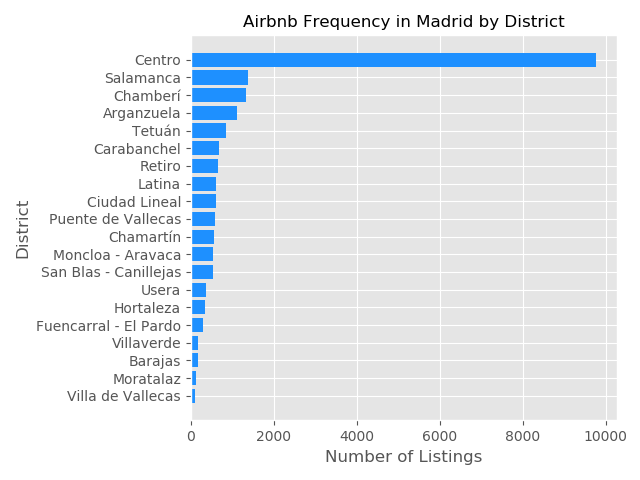
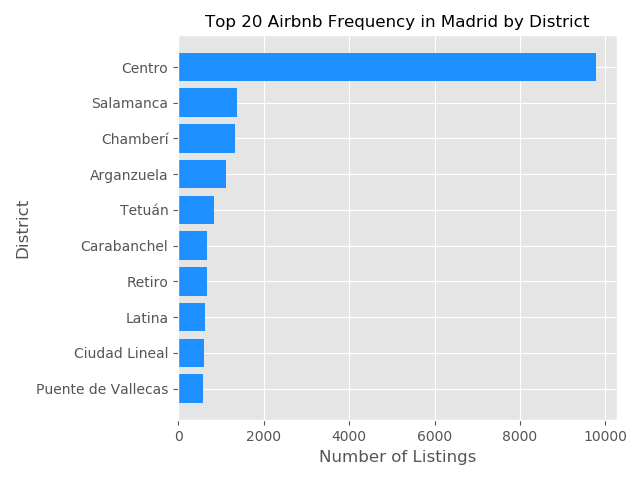
updated plot.py and Madrid section README

diff --git a/src/plots.py b/src/plots.py
@@ -8,6 +8,12 @@ import geoplot
 import eda
 plt.style.use('ggplot')
 
+def top_20(data, col_name, n = 20):
+    count = data[col_name].value_counts()
+    top20 = count[:n]
+    labels = top20.index
+    return labels, top20
+
 
 def bar_plot(data, labels, title = None, xlabel = None, ylabel = None):
     fig, ax = plt.subplots(1,1)
@@ -51,7 +57,7 @@ def nested_dictionary(data, col_name):
     return subdatasets
 
 def geomap_plot(d, base_map, color_dict, title = None, labels = None):
-    fig, ax = plt.subplots(1,1)
+    fig, ax = plt.subplots(1,1, figsize = (10, 10))
     ax.set_aspect('equal')
     base = base_map.plot(ax = ax, alpha=0.5, edgecolor='k')
     for k,v in d.items():
@@ -103,8 +109,8 @@ if __name__ == "__main__":
 
 
     #EDA plot
-    borough_labels, borough_counts = eda.top_20(nyc, 'neighbourhood_group')
-    neighborhood_labels, neighborhood_counts = eda.top_20(nyc, 'neighbourhood')
+    borough_labels, borough_counts = top_20(nyc, 'neighbourhood_group')
+    neighborhood_labels, neighborhood_counts = top_20(nyc, 'neighbourhood')
     bar_plot(borough_counts, borough_labels, 'Airbnb Frequency in NYC by Borough', 'Number of Listings', 'Boroughs')
     plt.savefig('images/borough_nyc.png')
     bar_plot(neighborhood_counts, neighborhood_labels, 'Airbnb Frequency in NYC by Neighborhood', 'Number of Listings', 'Neighborhoods')
@@ -122,14 +128,14 @@ if __name__ == "__main__":
     geomap_plot(grouped_geo_df, nyc_map, nyc_colors, title = 'Airbnb Listings in New York City')
     plt.savefig('images/nyc_map.png')
 
-    district_labels, district_counts = eda.top_20(madrid, 'neighbourhood_group', 10)
-    madrid_neighborhood_labels, madrid_neighborhood_counts = eda.top_20(madrid, 'neighbourhood', 10)
-    bar_plot(district_counts, district_labels, 'Airbnb Frequency in Madrid by District', 'Number of Listings', 'District')
+    district_labels, district_counts = top_20(madrid, 'neighbourhood_group', 10)
+    madrid_neighborhood_labels, madrid_neighborhood_counts = top_20(madrid, 'neighbourhood', 20)
+    bar_plot(district_counts, district_labels, 'Top 20 Airbnb Frequency in Madrid by District', 'Number of Listings', 'District')
     plt.savefig('images/district_madrid.png')
-    bar_plot(madrid_neighborhood_counts, madrid_neighborhood_labels, 'Top 20 Airbnb Frequency in Madrid by Neighborhood', 'Number of Listings', 'Neighborhoods')
-    plt.savefig('images/top5_madrid_neighborhoods.png')
+    bar_plot(madrid_neighborhood_counts, madrid_neighborhood_labels, 'Top 10 Airbnb Frequency in Madrid by Neighborhood', 'Number of Listings', 'Neighborhoods')
+    plt.savefig('images/top20_madrid_neighborhoods.png')
 
-    room_type_by_borough_madrid = grouped_roomtype_count(madrid, 'neighbourhood_group', 5)
+    room_type_by_borough_madrid = grouped_roomtype_count(madrid, 'neighbourhood_group', 10)
     side_by_side_bar(room_type_by_borough_madrid, 'Airbnb Room Type Frequency in Madrid by Districts', 'Districts', 'Number of Listings')
     plt.savefig('images/room_type_districts.png')
 

diff --git a/README.md b/README.md
@@ -66,7 +66,7 @@ In the right chart you see the same graph but the frequency is grouped by neighb
 | Staten Island | 0 |
 | Bronx | 0 |
 
-**Table 1. Number of neighborhoods in top 20.**
+**Table 1. Number of top 20 neighborhoods in each districts.**
 
 Digging deeper into the listings in each borough, I wanted to see whether room types change depending on location. 
 
@@ -127,10 +127,102 @@ I wanted to look in to availability thru out the year to see if the host complie
 
 <p align="center">
     <img src="images/district_madrid.png" width='400' />
-    <img src="images/top5_madrid_neighborhoods.png" width = '400' />
+    <img src="images/top20_madrid_neighborhoods.png" width = '400' />
 </p>
 
 **Figure 3. Frequency of listings in each district and the top 20 neighborhoods in Madrdid.**
+
+One thing to point out is that Madrid has 21 districts which is quite a bit more than NYC 5 boroghs, so I decide to drop anaylsis to the top 10 districts. The EDA for Madrid for the most part was the same process. The aspect that pops out in the left chart is the the listings in Madrid are heavily concentrated in Centro, more so than NYC. On the right, listings are more evenly distributed, but we have to check where how many top 10 neighborhoods are in the districts.
+
+| District | Neighborhood Count |
+| ------- | ------------------ |
+| Centro | 6 |
+| Chamberí | 5 |
+| Salamanca | 4 |
+| Retiro | 1 |
+| Tetuán | 1 |
+| Latina | 1 |
+| Moncloa - Aravaca | 1 |
+| Arganzuela | 1 |
+
+**Table 5. Number of top 20 neighborhoods in each districts.**
+
+Here you can see the small difference of how the popular neighborhoods are distrbuted in Madrid than NYC.
+
+<p align="center">
+    <img src="images/room_type_districts.png" />
+<p/>
+
+**Figure 2. Frequency of each room type separated by top 5 districts.**
+
+In Madrid, it looks like entire homes or apartment is a majority of the market and hotel room is a new category. 
+
+Digging deeper into price, host listings counts, and availability in Madrid. 
+
+#### Price
+
+| District |  Min Price | Mean Price | Max Price |
+| -------- | ---------- | ---------- | --------- |
+| Centro | 10 | 129.87 | 9999 |
+| Ciudad Lineal | 8 | 115.53 | 3000 |
+| Salamanca | 10 | 152.78 | 8930 |
+| Retiro | 9 | 116.48 | 6000 |
+| Tetuán | 12 | 160.77 | 8601 |
+| Latina | 9 | 125.72 |1890 |
+| Moncloa - Aravaca | 9 |  116.84 | 2950 |
+| Carabanchel | 9 | 80.11 | 3000 |
+| Puente de Vallecas | 9 | 85.73 | 4000 |
+| Arganzuela | 8 |  93.80| 8465 |
+
+
+**Table 6. Minimum, Mean, and Maximum prices in each top 10 district.**
+
+#### Host Listing Count
+
+| District |  Min Count | Mean Count | Max Count |
+| -------- | ---------- | ---------- | --------- |
+| Centro | 1 | 14 | 231 |
+| Ciudad Lineal | 1| 3 | 110 |
+| Salamanca | 1 | 21 | 231 |
+| Retiro | 1 | 9 | 231 |
+| Tetuán | 1 | 10 | 231 |
+| Latina | 1 | 9 | 124 |
+| Moncloa - Aravaca | 1 |  10 | 156 |
+| Carabanchel | 1 | 5 | 56 |
+| Puente de Vallecas | 1 | 5| 51 |
+| Arganzuela | 1 |  6| 156 |
+| Madrid | 1 |  12| 231 |
+
+**Table 7. Minimum, Mean, and Maximum number of host listings in each top 10 district.**
+
+#### Availability 
+
+| District |  Mean Count |
+| -------- | ----------- |
+| Centro | 157 | 
+| Ciudad Lineal | 154|
+| Salamanca | 149.30 | 
+| Retiro | 150| 
+| Tetuán | 151 | 
+| Latina | 152| 
+| Moncloa - Aravaca | 151 |
+| Carabanchel | 172 | 
+| Puente de Vallecas | 169 |
+| Arganzuela | 128 | 
+| Madrid | 155 | 
+
+
+**Table 8. Minimum, Mean, and Maximum days a listing is available for booking in each district.**
+
+
+
+### Geographical Maps
+
+
+<p align="center">
+    <img src="images/nyc_map.png" width='400' />
+    <img src="images/madrid_map.png" width = '400' />
+</p>
 
 
 
